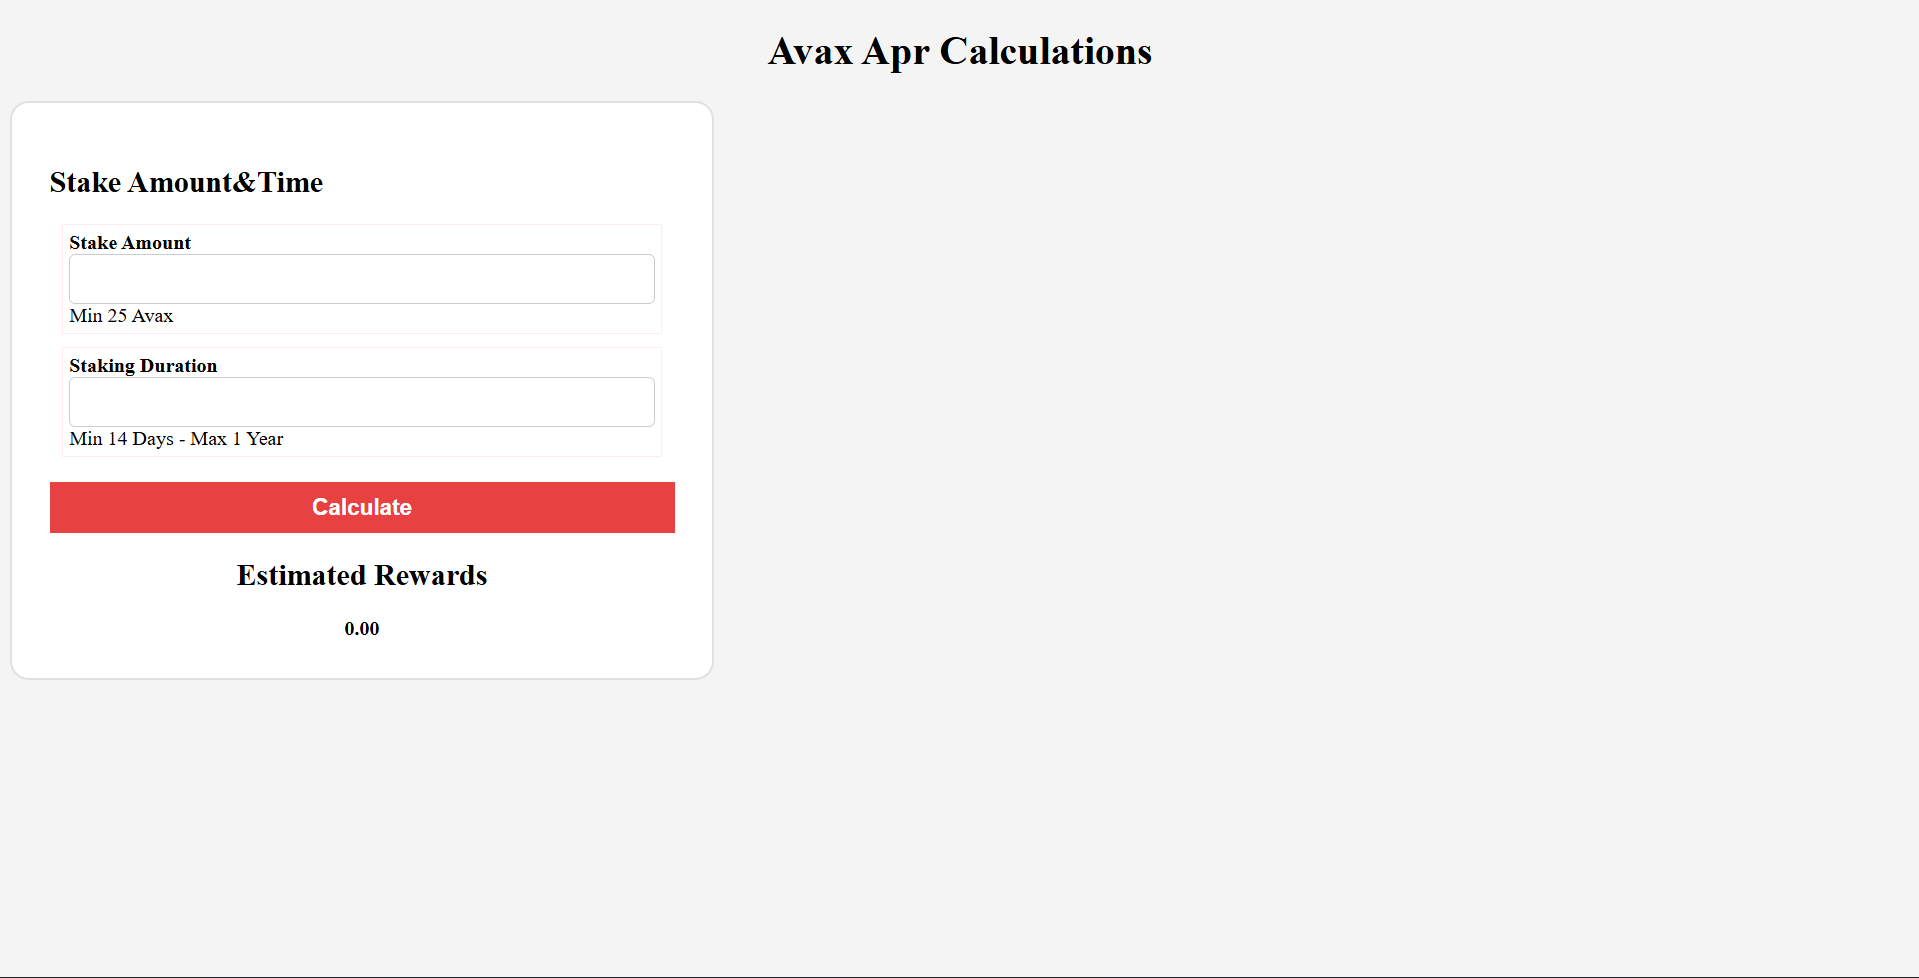
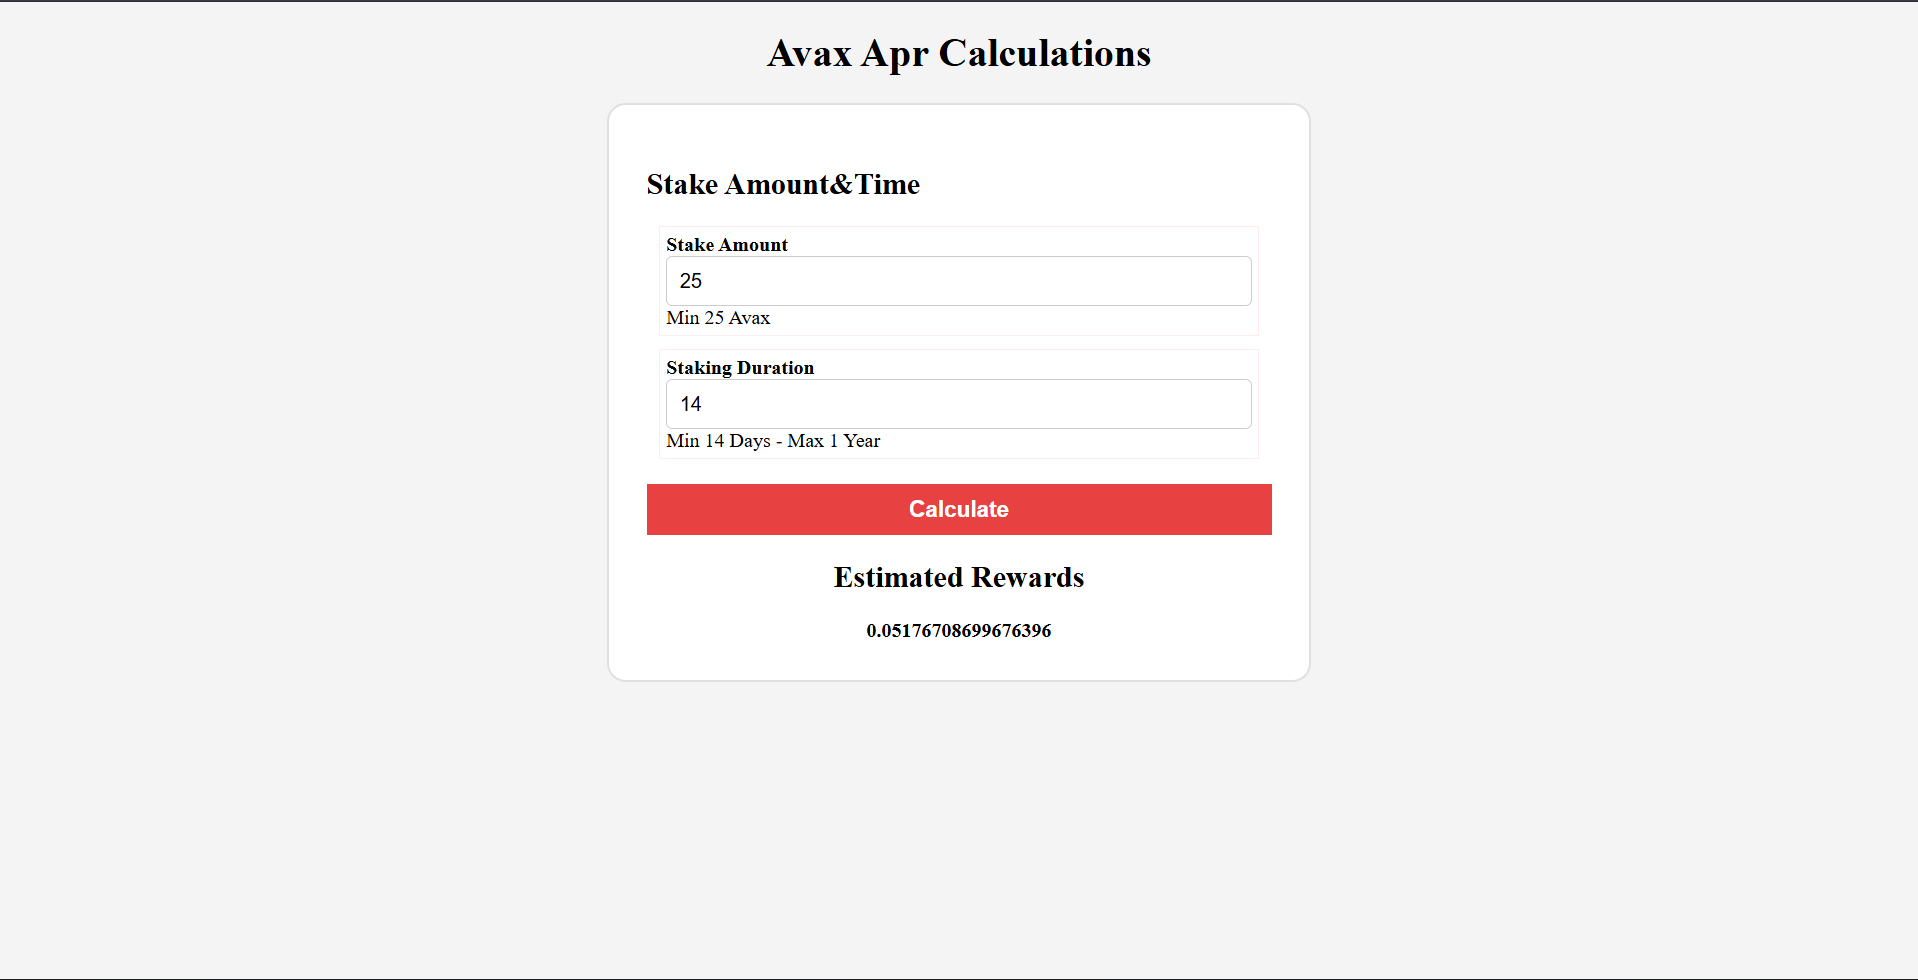
update screenshot image

diff --git a/sytle.css b/sytle.css
@@ -14,7 +14,7 @@ h1 {
     padding: 30px;
     border: 2px solid #e0e0e0;
     border-radius: 15px;
-
+    justify-self: center;
 }
 .form {
     margin: 10px;
